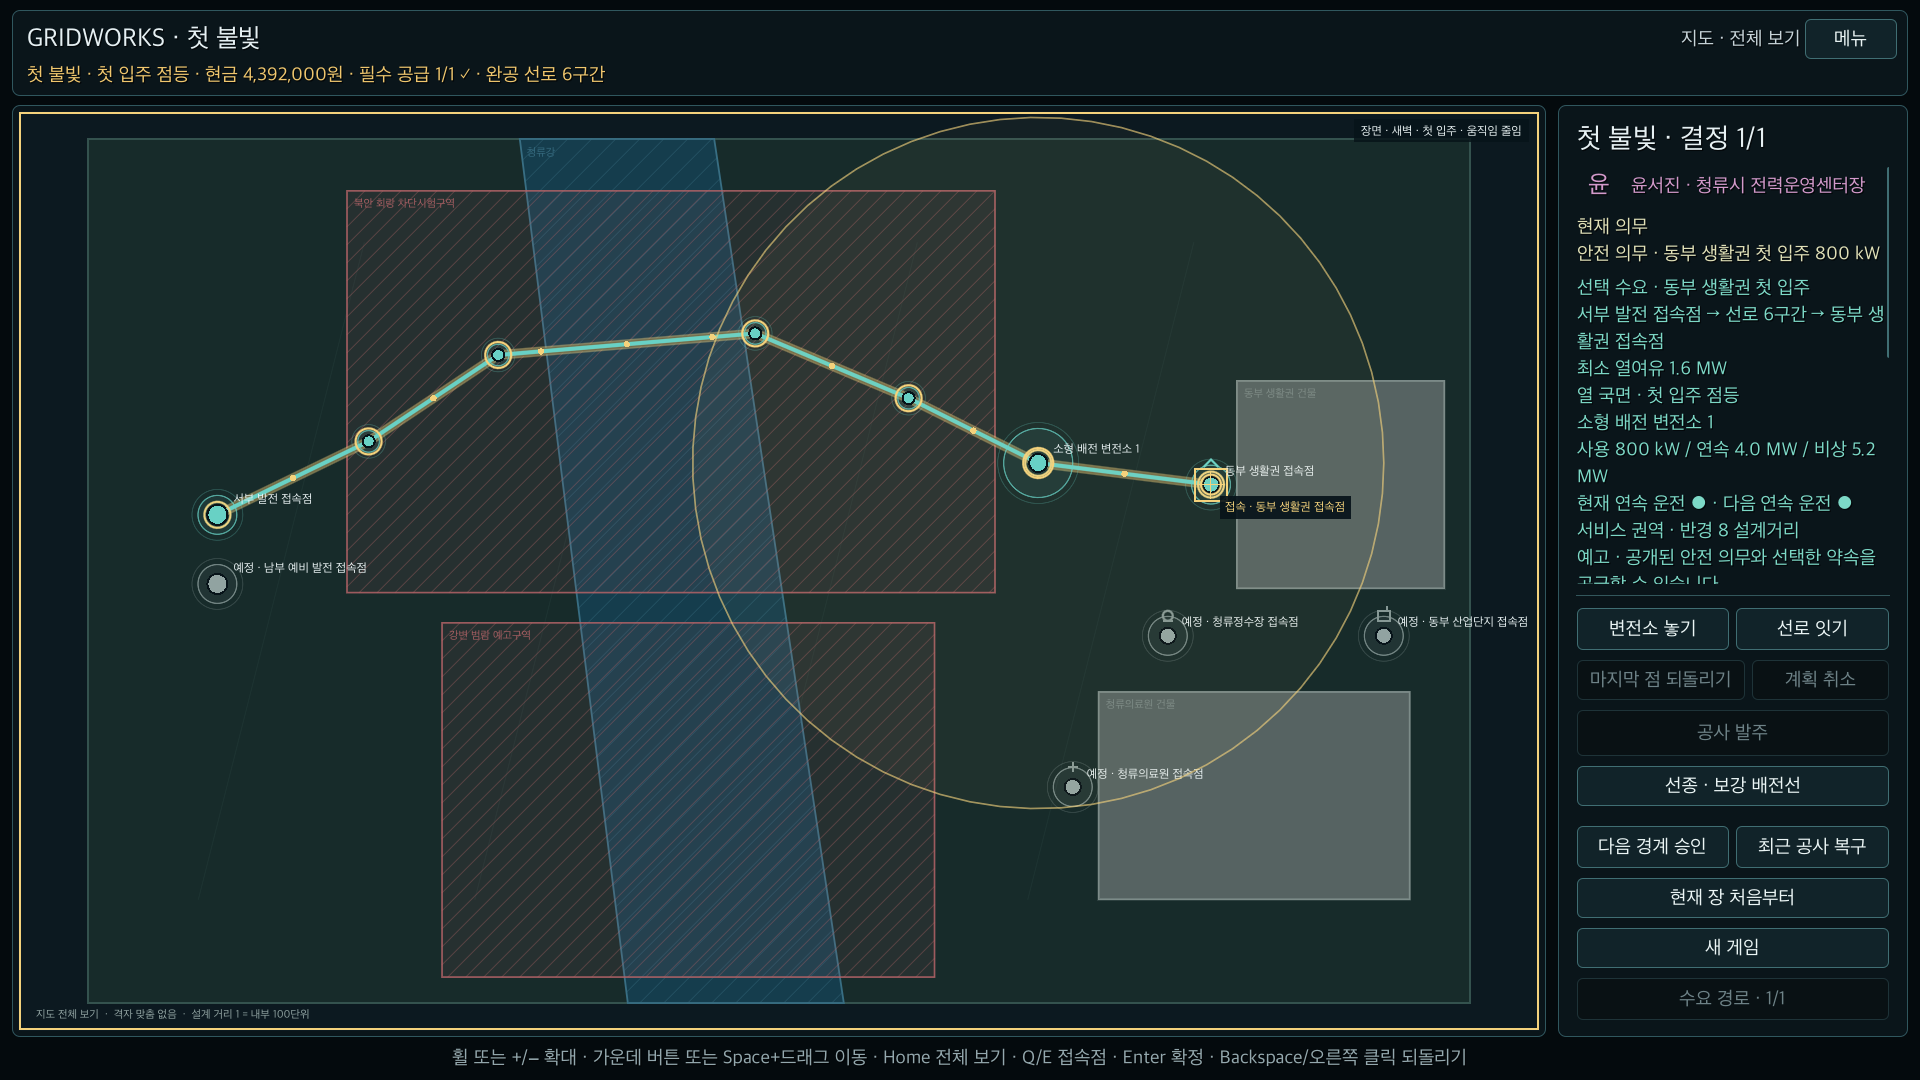
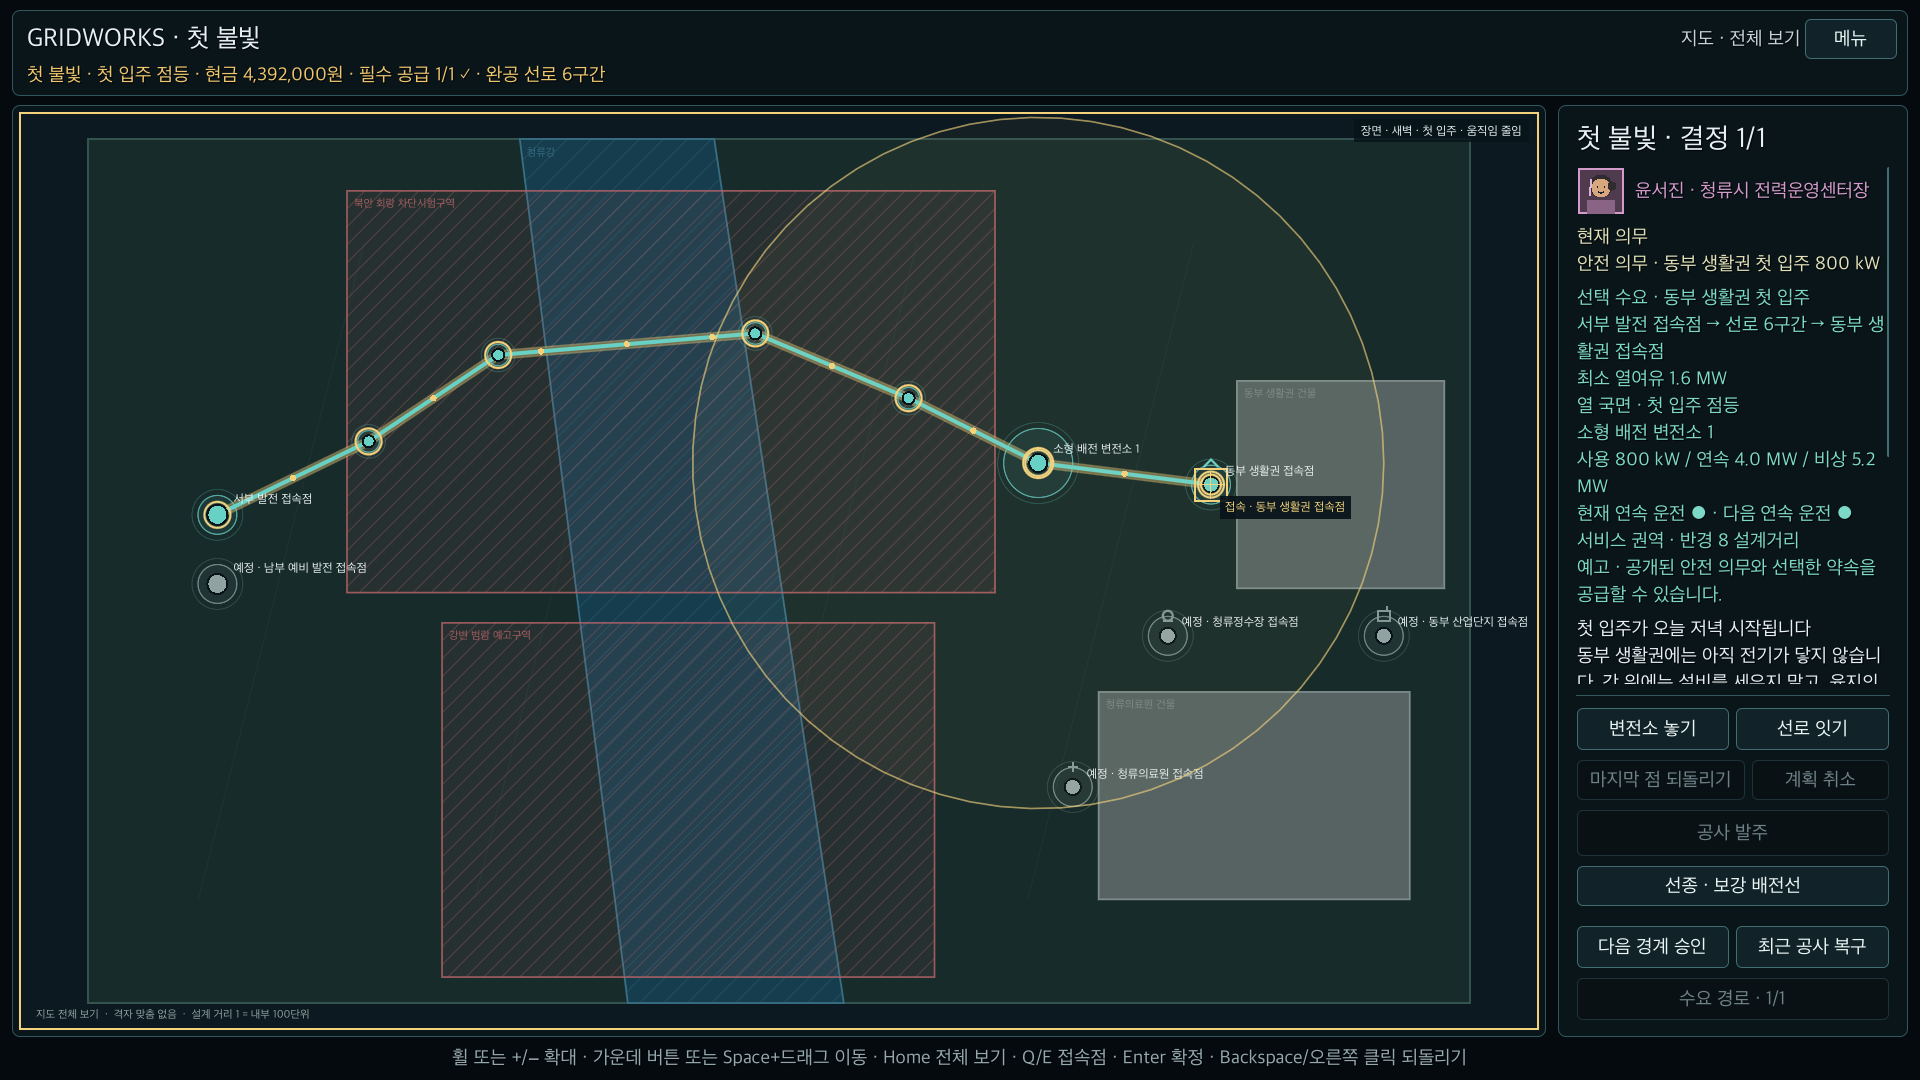
Close Stage G release review findings

Changed region(s): [[0.8125, 0.1528, 1.0, 0.7333], [0.8125, 0.7639, 0.9688, 0.8861]]

diff --git a/game/CommercialMain.cs b/game/CommercialMain.cs
@@ -365,17 +365,10 @@ internal sealed partial class CommercialMain : Control
                 RollbackProject();
                 break;
             case CommercialPanelAction.RestartChapter:
-                if (_coreRun?.GetSnapshot().CampaignComplete == true)
-                {
-                    StartCompletedChapter();
-                }
-                else
-                {
-                    RestartChapter();
-                }
+                ShowPause();
                 break;
             case CommercialPanelAction.NewGame:
-                StartNewGame();
+                _shell.ShowTitle(_hasContinuation, "새 게임은 확인 뒤 시작할 수 있습니다.");
                 break;
             case CommercialPanelAction.NextThermalPhase:
                 if (_coreRun?.GetSnapshot().CampaignComplete == true)
@@ -514,6 +507,11 @@ internal sealed partial class CommercialMain : Control
             RejectLocally("이 열 연습에는 다시 시작할 캠페인 장이 없습니다.");
             return;
         }
+        if (_coreRun.GetSnapshot().CampaignComplete)
+        {
+            StartCompletedChapter();
+            return;
+        }
         CommercialCoreCommandResult result = _coreRun.RestartChapter();
         if (result.Accepted)
         {
@@ -550,6 +548,10 @@ internal sealed partial class CommercialMain : Control
             {
                 _lastError = "이전 저장을 보존하지 못해 새 게임을 시작하지 않았습니다.";
                 Render();
+                if (_shell.Page != ReleaseShellPage.Hidden)
+                {
+                    _shell.ShowPersistenceError(_lastError);
+                }
                 return;
             }
         }
@@ -571,6 +573,10 @@ internal sealed partial class CommercialMain : Control
         RefreshThermalProjection();
         RefreshPointerPreview();
         Render();
+        if (_shell.Page != ReleaseShellPage.Hidden)
+        {
+            _shell.HideShell();
+        }
         if (fromTitle)
         {
             if (_settings.ShowControlHelp)
@@ -611,6 +617,10 @@ internal sealed partial class CommercialMain : Control
         RefreshThermalProjection();
         RefreshPointerPreview();
         Render();
+        if (_shell.Page != ReleaseShellPage.Hidden)
+        {
+            _shell.HideShell();
+        }
     }
 
     private void ApplyCoreResult(CommercialCoreCommandResult result, string success)
@@ -625,12 +635,10 @@ internal sealed partial class CommercialMain : Control
             PersistCoreRun();
             if (result.CompletedChapter is not null)
             {
-                _audio.PlayLive(ReleaseAudioCue.Result);
                 int completedIndex = result.Snapshot.ChapterResults.Count - 1;
-                if (completedIndex == 0 || result.Snapshot.CampaignComplete)
-                {
-                    _audio.PlayMotifLive(result.Snapshot.CampaignComplete);
-                }
+                _audio.QueueResultLive(
+                    completedIndex == 0 || result.Snapshot.CampaignComplete,
+                    result.Snapshot.CampaignComplete);
             }
         }
         else
@@ -1148,11 +1156,13 @@ internal sealed partial class CommercialMain : Control
                 core?.CampaignComplete == true ? "선택 장부터 다시" : "현재 장 처음부터",
                 core?.CampaignComplete == true
                     ? "선택한 완료 장의 시작 journal 상태에서 새 진행을 시작합니다."
-                    : "현재 장 시작 journal로 되돌려 좌표·현금·시각·국면·약속·열 상태를 다시 만듭니다."),
+                    : "현재 장 시작 journal로 되돌려 좌표·현금·시각·국면·약속·열 상태를 다시 만듭니다.",
+                Visible: false),
             new CommercialActionPresentation(
                 core is not null,
                 "새 게임",
-                "현재 진행을 지우고 첫 불빛부터 시작합니다. 비호환 저장은 별도 파일로 보존합니다."),
+                "현재 진행을 지우고 첫 불빛부터 시작합니다. 비호환 저장은 별도 파일로 보존합니다.",
+                Visible: false),
             new CommercialActionPresentation(
                 core?.CampaignComplete == true || _thermalSequence.Intervals.Count > 1,
                 core?.CampaignComplete == true
@@ -1207,19 +1217,19 @@ internal sealed partial class CommercialMain : Control
         return speaker switch
         {
             "박지현" => new CommercialSpeakerPresentation(
-                "박",
+                "park",
                 "박지현 · 계통운영 책임자",
                 Color.FromHtml("79b8d6")),
             "강민호" => new CommercialSpeakerPresentation(
-                "강",
+                "kang",
                 "강민호 · 발전운영 책임자",
                 Color.FromHtml("e2b461")),
             "이도윤" => new CommercialSpeakerPresentation(
-                "이",
+                "lee",
                 "이도윤 · 정수운영 책임자",
                 Color.FromHtml("71c8a8")),
             _ => new CommercialSpeakerPresentation(
-                "윤",
+                "yoon",
                 "윤서진 · 청류시 전력운영센터장",
                 Color.FromHtml("d39acb")),
         };
@@ -1915,8 +1925,11 @@ internal sealed partial class CommercialMain : Control
             return;
         }
         CommercialCoreSnapshot? core = _coreRun?.GetSnapshot();
+        string chapterName = core?.CampaignComplete == true
+            ? _campaign.Chapters[_completedChapterSelectionIndex].DisplayName
+            : core?.Chapter.DisplayName ?? "열 운영 연습";
         _shell.ShowPause(
-            core?.Chapter.DisplayName ?? "열 운영 연습",
+            chapterName,
             _lastError,
             canRewindPreviousChapter: core is { CampaignComplete: false, ChapterIndex: > 0 });
     }

diff --git a/game/CommercialMain.Smoke.cs b/game/CommercialMain.Smoke.cs
@@ -451,8 +451,8 @@ internal sealed partial class CommercialMain
                 _map.AccessibilityName.Contains("예정 시설 4곳", StringComparison.Ordinal) &&
                 ControlInside(_panel, _panel.GetActionButton(CommercialPanelAction.ApproveWindow)) &&
                 ControlInside(_panel, _panel.GetActionButton(CommercialPanelAction.RollbackProject)) &&
-                ControlInside(_panel, _panel.GetActionButton(CommercialPanelAction.RestartChapter)) &&
-                ControlInside(_panel, _panel.GetActionButton(CommercialPanelAction.NewGame)),
+                !_panel.GetActionButton(CommercialPanelAction.RestartChapter).Visible &&
+                !_panel.GetActionButton(CommercialPanelAction.NewGame).Visible,
                 "1920×1080·UI 125%에서 상용 캠페인·오디오와 고정 행동 영역을 열지 못했습니다.");
 
             if (_options.CampaignSmoke)
@@ -469,7 +469,8 @@ internal sealed partial class CommercialMain
                 _savePath = incompatiblePath;
                 _saveWritable = false;
                 _incompatibleSavePending = true;
-                await PressPanelAsync(CommercialPanelAction.NewGame, "비호환 저장 뒤 새 게임");
+                _shell.ShowTitle(false, "비호환 저장 복구 확인");
+                await PressShellAsync(ReleaseShellAction.NewGame, "비호환 저장 뒤 새 게임");
                 coreRun = _coreRun!;
                 string[] preserved = Directory.GetFiles(
                     recoveryDirectory,
@@ -871,7 +872,13 @@ internal sealed partial class CommercialMain
             Require(_completedChapterSelectionIndex == 7 &&
                 _panel.AccessibilityName.Contains("8/8 가장 긴 밤", StringComparison.Ordinal),
                 "실제 키보드 입력으로 여덟 번째 장 시작 상태를 선택하지 못했습니다.");
-            await PressPanelAsync(CommercialPanelAction.RestartChapter, "선택한 마지막 장부터 다시 시작");
+            _helpButton.GrabFocus();
+            await NextFrame();
+            await PressKey(Key.Enter);
+            Require(_shell.Page == ReleaseShellPage.Pause,
+                "완료 캠페인에서 메뉴가 선택 장 재시작 확인을 열지 못했습니다.");
+            await PressShellAsync(ReleaseShellAction.RestartChapter, "선택한 마지막 장 재시작 확인 열기");
+            await PressShellAsync(ReleaseShellAction.Confirm, "선택한 마지막 장부터 다시 시작");
             await NextFrame();
             CommercialCoreSnapshot selected = _coreRun!.GetSnapshot();
             Require(!selected.CampaignComplete && selected.Chapter.ChapterId == "LONGEST_NIGHT" &&

diff --git a/game/CommercialPortrait.cs b/game/CommercialPortrait.cs
@@ -1,0 +1,64 @@
+using Godot;
+
+namespace Gridworks.Game;
+
+/// <summary>
+/// Draws four fixed, code-native speaker portraits without shipping a raster asset.
+/// Face details remain distinct when the accompanying role color cannot be perceived.
+/// </summary>
+internal sealed partial class CommercialPortrait : Control
+{
+    private string _personId = "yoon";
+    private Color _accent = Color.FromHtml("d39acb");
+
+    public override void _Ready()
+    {
+        MouseFilter = MouseFilterEnum.Ignore;
+        ClipContents = true;
+    }
+
+    public void SetPerson(string personId, string accessibleName, Color accent)
+    {
+        _personId = personId;
+        _accent = accent;
+        AccessibilityName = $"{accessibleName} 고정 초상";
+        QueueRedraw();
+    }
+
+    public override void _Draw()
+    {
+        Color outline = Color.FromHtml("17212b");
+        Color skin = Color.FromHtml("d9a77d");
+        Color hair = Color.FromHtml("302b30");
+        DrawRect(new Rect2(1f, 1f, 46f, 46f), _accent.Darkened(0.62f), true);
+        DrawRect(new Rect2(2f, 2f, 44f, 44f), _accent, false, 2f);
+        DrawCircle(new Vector2(24f, 19f), 11.5f, hair);
+        DrawCircle(new Vector2(24f, 21f), 9.5f, skin);
+        DrawRect(new Rect2(10f, 33f, 28f, 14f), _accent.Darkened(0.35f), true);
+        DrawCircle(new Vector2(20.5f, 20f), 1.1f, outline);
+        DrawCircle(new Vector2(27.5f, 20f), 1.1f, outline);
+        DrawArc(new Vector2(24f, 23f), 3f, 0.35f, 2.79f, 12, outline, 1.2f);
+
+        switch (_personId)
+        {
+            case "park":
+                DrawRect(new Rect2(16.5f, 17f, 7f, 5.5f), outline, false, 1.2f);
+                DrawRect(new Rect2(24.5f, 17f, 7f, 5.5f), outline, false, 1.2f);
+                DrawLine(new Vector2(23.5f, 19f), new Vector2(24.5f, 19f), outline, 1.2f);
+                break;
+            case "kang":
+                DrawLine(new Vector2(20f, 26f), new Vector2(24f, 24.5f), hair, 2f);
+                DrawLine(new Vector2(24f, 24.5f), new Vector2(28f, 26f), hair, 2f);
+                DrawLine(new Vector2(16f, 11f), new Vector2(31f, 11f), outline, 2f);
+                break;
+            case "lee":
+                DrawArc(new Vector2(24f, 13f), 10f, 3.2f, 6.2f, 18, _accent.Darkened(0.5f), 4f);
+                DrawLine(new Vector2(24f, 7f), new Vector2(33f, 11f), _accent.Darkened(0.5f), 3f);
+                break;
+            default:
+                DrawCircle(new Vector2(35f, 19f), 4.5f, hair);
+                DrawLine(new Vector2(14f, 12f), new Vector2(13f, 29f), _accent.Lightened(0.25f), 2f);
+                break;
+        }
+    }
+}

diff --git a/game/ReleaseAudio.cs b/game/ReleaseAudio.cs
@@ -37,6 +37,9 @@ internal sealed partial class ReleaseAudio : Node
     private AudioStreamWav _result = null!;
     private AudioStreamWav _firstLightMotif = null!;
     private AudioStreamWav _lastBypassMotif = null!;
+    private bool _resultQueued;
+    private bool _queuedMotif;
+    private bool _queuedFinalMotif;
     private bool _ready;
 
     public override void _Ready()
@@ -69,6 +72,7 @@ internal sealed partial class ReleaseAudio : Node
         AddChild(_weatherPlayer);
         AddChild(_sfxPlayer);
         AddChild(_motifPlayer);
+        _sfxPlayer.Finished += OnSfxFinished;
         _ambientPlayer.Play();
         _weatherPlayer.Play();
         _ready = true;
@@ -123,6 +127,21 @@ internal sealed partial class ReleaseAudio : Node
         _sfxPlayer.Play();
     }
 
+    public void QueueResultLive(bool playMotif, bool finalChapter)
+    {
+        if (!_ready)
+        {
+            return;
+        }
+        _resultQueued = true;
+        _queuedMotif = playMotif;
+        _queuedFinalMotif = finalChapter;
+        if (!_sfxPlayer.Playing)
+        {
+            OnSfxFinished();
+        }
+    }
+
     public void SetAtmosphere(int chapterIndex)
     {
         if (!_ready)
@@ -154,6 +173,25 @@ internal sealed partial class ReleaseAudio : Node
         }
         _motifPlayer.Stream = finalChapter ? _lastBypassMotif : _firstLightMotif;
         _motifPlayer.Play();
+    }
+
+    private void OnSfxFinished()
+    {
+        if (!_ready || !_resultQueued)
+        {
+            return;
+        }
+        bool playMotif = _queuedMotif;
+        bool finalChapter = _queuedFinalMotif;
+        _resultQueued = false;
+        _queuedMotif = false;
+        _queuedFinalMotif = false;
+        _sfxPlayer.Stream = _result;
+        _sfxPlayer.Play();
+        if (playMotif)
+        {
+            PlayMotifLive(finalChapter);
+        }
     }
 
     private static AudioStreamWav BuildAmbient()

diff --git a/game/CommercialTaskPanel.cs b/game/CommercialTaskPanel.cs
@@ -29,7 +29,7 @@ internal sealed record CommercialActionPresentation(
     bool Visible = true);
 
 internal sealed record CommercialSpeakerPresentation(
-    string Initial,
+    string PersonId,
     string NameAndRole,
     Color CardColor);
 
@@ -61,7 +61,7 @@ internal sealed record CommercialTaskPanelModel(
 internal sealed partial class CommercialTaskPanel : PanelContainer
 {
     private Label _headingLabel = null!;
-    private Label _portraitBadge = null!;
+    private CommercialPortrait _portrait = null!;
     private Label _speakerLabel = null!;
     private Label _instructionLabel = null!;
     private Label _obligationsLabel = null!;
@@ -77,7 +77,7 @@ internal sealed partial class CommercialTaskPanel : PanelContainer
     public override void _Ready()
     {
         _headingLabel = GetNode<Label>("%HeadingLabel");
-        _portraitBadge = GetNode<Label>("%PortraitBadge");
+        _portrait = GetNode<CommercialPortrait>("%Portrait");
         _speakerLabel = GetNode<Label>("%SpeakerLabel");
         _instructionLabel = GetNode<Label>("%InstructionLabel");
         _obligationsLabel = GetNode<Label>("%ObligationsLabel");
@@ -119,8 +119,10 @@ internal sealed partial class CommercialTaskPanel : PanelContainer
     {
         ArgumentNullException.ThrowIfNull(model);
         _headingLabel.Text = model.Heading;
-        _portraitBadge.Text = model.Speaker.Initial;
-        _portraitBadge.AddThemeColorOverride("font_color", model.Speaker.CardColor);
+        _portrait.SetPerson(
+            model.Speaker.PersonId,
+            model.Speaker.NameAndRole,
+            model.Speaker.CardColor);
         _speakerLabel.Text = model.Speaker.NameAndRole;
         _speakerLabel.AddThemeColorOverride("font_color", model.Speaker.CardColor);
         _instructionLabel.Text = model.Instruction;

diff --git a/ASSET_MANIFEST.md b/ASSET_MANIFEST.md
@@ -4,7 +4,7 @@
 
 | 자산 | 형태와 출처 | 권리·라이선스 경계 |
 |---|---|---|
-| 청류시 지도·시설·상태 pattern·고정 인물 badge | `CommercialMapView.cs`, `CommercialTaskPanel.cs`가 그리는 저장소 자체 code-native 2D 표현 | Gridworks 자체 저작물. 공개 라이선스 없음. 내부 후보에만 포함 |
+| 청류시 지도·시설·상태 pattern·네 고정 인물 초상 | `CommercialMapView.cs`, `CommercialPortrait.cs`가 그리는 저장소 자체 code-native 2D 표현 | Gridworks 자체 저작물. 공개 라이선스 없음. 내부 후보에만 포함 |
 | 도시 환경음·날씨 layer·발주·완공·통전·차단·경고·결과 cue·두 motif | `ReleaseAudio.cs`가 실행 중 생성하는 결정적 mono PCM16 파형. 외부 음원 sample 없음 | Gridworks 자체 저작물. 공개 라이선스 없음. 내부 후보에만 포함 |
 | app icon | `game/icon.svg`, 저장소 자체 vector | Gridworks 자체 저작물. 공개 라이선스 없음. 내부 후보에만 포함 |
 | UI 글꼴 | 별도 font 파일을 포함하지 않고 Godot/macOS system fallback 사용 | Godot와 OS의 각 라이선스 적용. Godot 고지는 동봉 |

diff --git a/playtests/commercial-2d/LAYOUT_EVIDENCE.md b/playtests/commercial-2d/LAYOUT_EVIDENCE.md
@@ -20,6 +20,8 @@
   접속점을 굵은 외곽선, 고정 흐름점, 접속점 ring과 시설 icon으로 함께 강조한다.
 - Header는 장·현재 경계·현금·`필수 공급 1/1 ✓`를 표시한다. 오른쪽 inspector는 선택 수요, 실제
   경로, 최소 열여유, 시설 상태를 접근성 문장에도 포함한다.
+- 오른쪽 inspector의 고정 code-native 초상은 윤서진·박지현·강민호·이도윤을 서로 다른 얼굴
+  윤곽과 직무 색으로 구분하며 이름·직무를 접근성 이름으로 제공한다.
 - keyboard로 Pause→Settings에서 UI 125%와 `지도 흐름과 날씨 움직임 줄이기`를 켰다. 핵심 공사,
   승인, 복구, 장 재시작과 수요/국면 전환은 긴 설명 ScrollContainer 밖 고정 영역 안에 남았다.
 - 같은 입력 흐름의 Save & Quit은 campaign과 settings temp 파일이 없는 성공 뒤에만 제목으로
